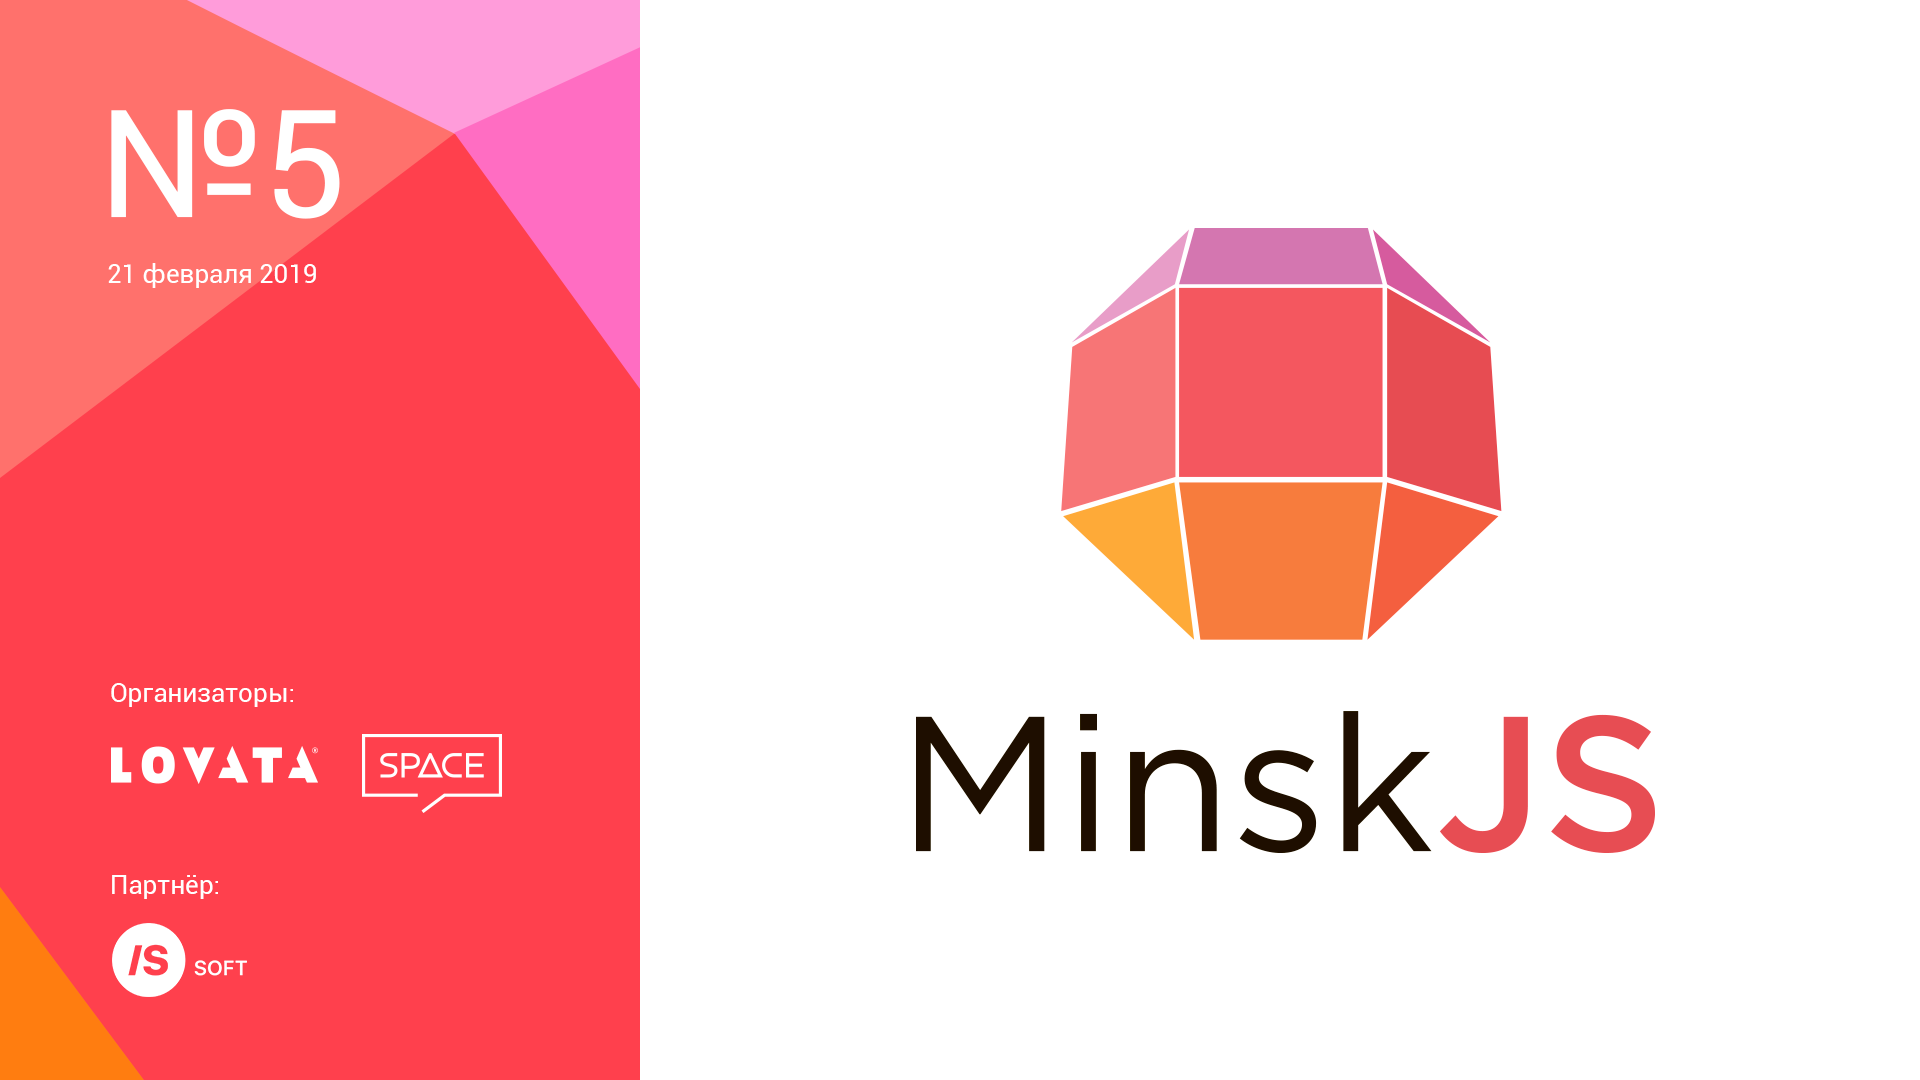
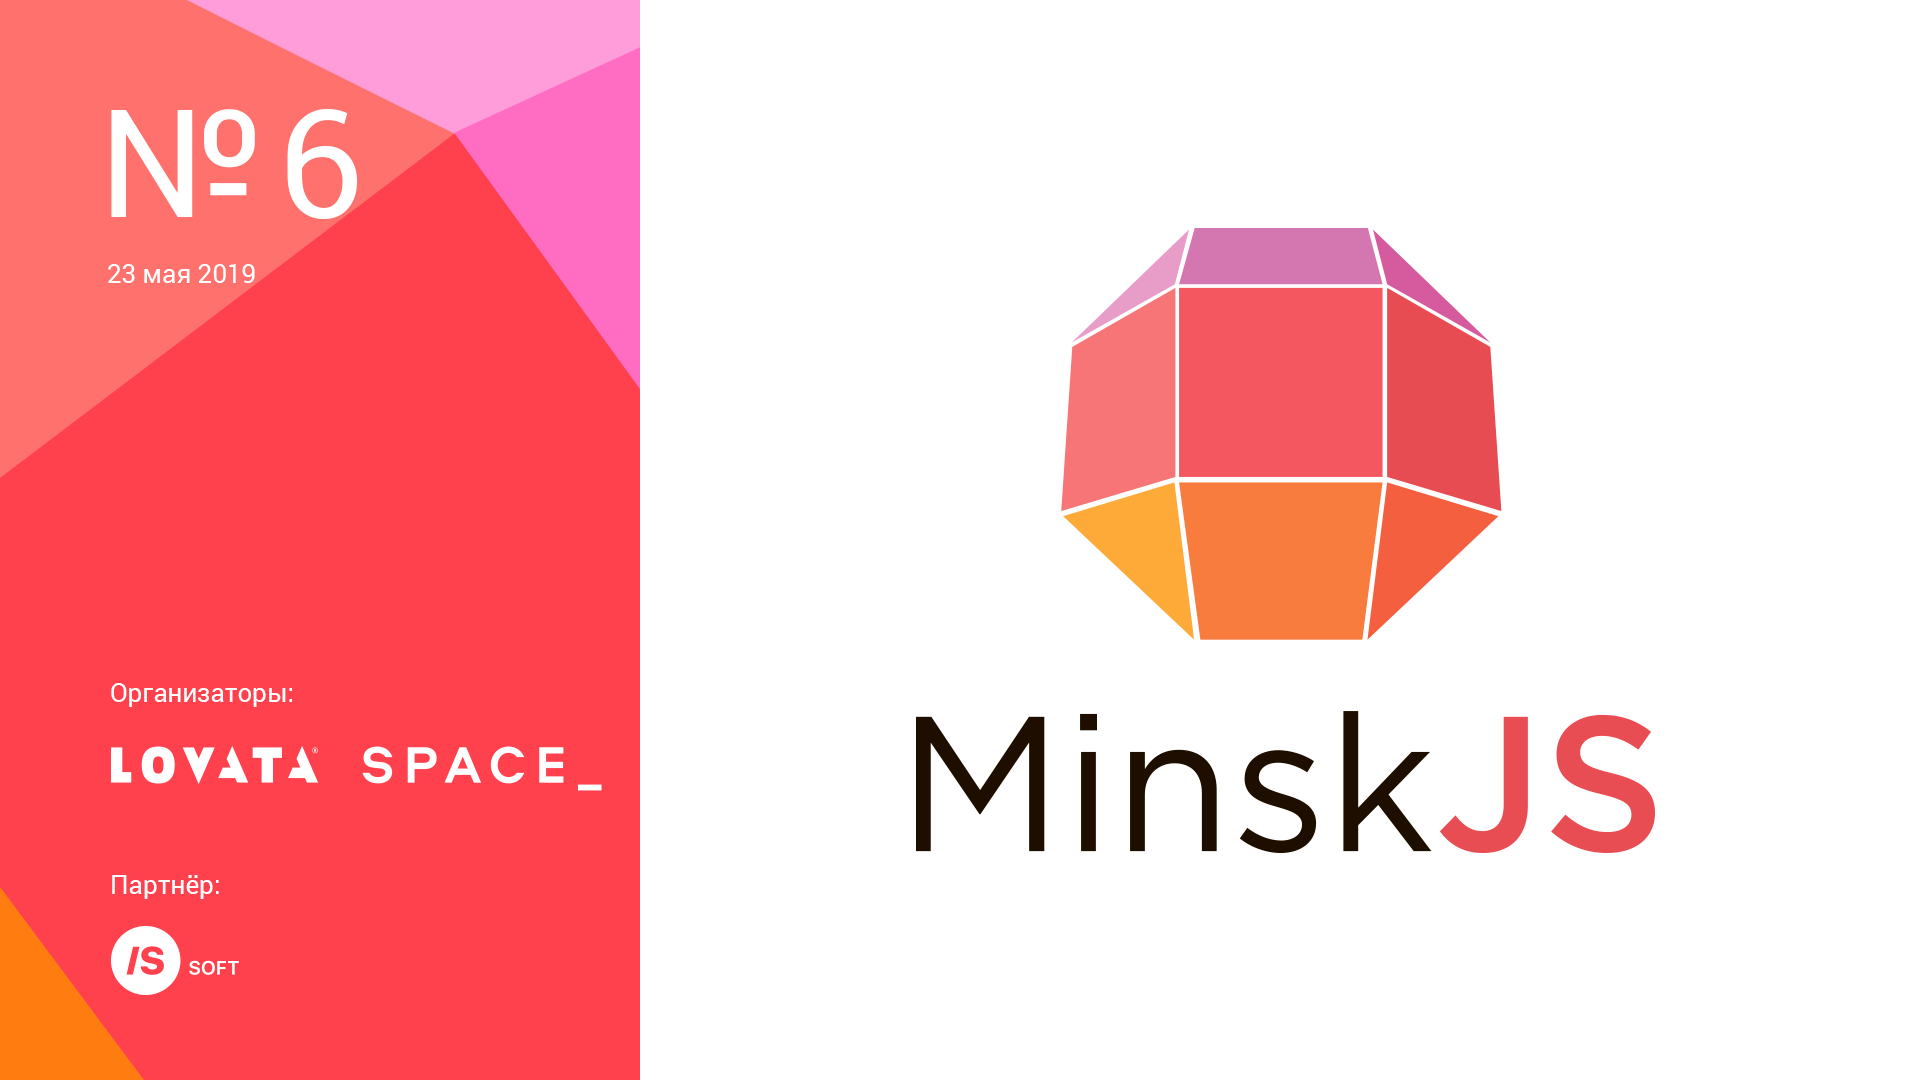
Update slides for 6th meetup

diff --git a/index.html b/index.html
@@ -2,7 +2,7 @@
 <html lang="en">
 
 <head>
-	<title>MinskJS Meetup #5 — Opening</title>
+	<title>MinskJS Meetup #6 — Opening</title>
 	<meta charset="utf-8">
 	<meta http-equiv="x-ua-compatible" content="ie=edge">
 	<meta name="viewport" content="width=device-width, initial-scale=1">
@@ -34,7 +34,7 @@
 <body class="shower list">
 
 	<header class="caption">
-		<h1>MinskJS Meetup #5</h1>
+		<h1>MinskJS Meetup #6</h1>
 		<p>
 			<a href="https://twitter.com/MinskJS">@minskjs</a>
 		</p>
@@ -49,7 +49,8 @@
 	</section>
 
 	<section class="slide clear">
-		<img src="pictures/space.svg" class="place" alt="SPACE" width="900">
+		<img src="./pictures/space.jpg" alt="" class="cover height">
+		<img src="pictures/space-logo.svg" class="place" alt="SPACE" width="800">
 	</section>
 
 	<section class="slide clear">
@@ -82,62 +83,52 @@
 			</style>
 			<div class="animated bounceInLeft animation-delay-100">
 				<img src="pictures/minskcss-logo.svg" alt="">
-				<span class="meetups-attendees-ratio">46,63%</span>
+				<span class="meetups-attendees-ratio">696</span>
 			</div>
 			<div class="animated bounceInRight animation-delay-100">
 				<img src="pictures/minskjs-logo.svg" alt="">
-				<span class="meetups-attendees-ratio">52,37%</span>
+				<span class="meetups-attendees-ratio">661</span>
 			</div>
 		</div>
 	</section>
 
 	<section class="slide black clear">
-		<h2 class="shout no-bg shrink" style="color: white">+18% 👥</h2>
+		<img src="pictures/css-minsk-js-logo-2019.svg" class="place" width="450" alt="CSS-Minsk-JS">
 	</section>
 
 	<section class="slide black clear">
-		<h2 class="shout no-bg shrink" style="color: white">+2 🎓</h2>
-	</section>
-
-	<section class="slide clear">
-		<img src="pictures/minskjs-workshop-2.png" alt="MinskJS Workshop #2" class="cover height">
+		<h2 class="shout no-bg shrink" style="color: white">2 ☀ + 1 💻</h2>
 	</section>
 
 	<section class="slide black clear">
-		<img src="pictures/css-minsk-js-logo.svg" class="place" width="450" alt="CSS-Minsk-JS">
+		<h2 class="shout no-bg shrink" style="color: white">500+ 👥</h2>
 	</section>
 
-	<section class="slide black clear">
-		<h2 class="shout no-bg shrink" style="color: white">2 ☀</h2>
-	</section>
-
-	<section class="slide black clear">
-		<h2 class="shout no-bg shrink" style="color: white">450 👥</h2>
-	</section>
-
-	<section class="slide clear">
-		<iframe width="100%" height="100%" class="cover" src="https://www.youtube.com/embed/e5jpuLPu8fA?controls=0" frameborder="0" allow="accelerometer; autoplay; encrypted-media; gyroscope; picture-in-picture" allowfullscreen></iframe>
-	</section>
-
-	<section class="slide black clear">
-		<img src="pictures/css-minsk-js-logo-2019.svg" class="place" width="600" alt="CSS-Minsk-JS">
-	</section>
-
-	<section class="slide clear black">
-		<img src="pictures/reactamsterdam-banner.jpg" class="cover" alt="ReactAmsterdam">
-	</section>
-
-	<section class="slide clear black">
-		<img src="pictures/opensourceawards-banner.jpg" class="cover" alt="ReactAmsterdam">
+	<section class="slide clear" style="background-color: #2c2929">
+		<img src="./pictures/mc.jpg" alt="" class="cover">
 	</section>
 
 	<section class="slide clear">
 		<img src="pictures/frontendconf-banner.png" class="cover" alt="FrontendConf">
 	</section>
 
-	<section class="slide clear">
-		<img src="pictures/patreon-logo.svg" class="cover" alt="Patreon">
+	<section class="slide clear black">
+		<img src="./pictures/itspring.png" alt="" class="cover height">
+		<h2 class="shout no-bg" style="color: white;
+		font-size: 2.5em;
+		top: 63%;">JSCOMMUNITY</h2>
 	</section>
+
+	<section class="slide clear black">
+		<img src="./pictures/chernivtsyjs.jpg" alt="" class="cover width">
+		<h2 class="shout no-bg" style="color: white;
+		font-size: 2.5em;
+		top: 85%;">ChernivtsyJSLovesMinskJS</h2>
+	</section>
+
+	<!-- <section class="slide clear">
+		<img src="pictures/patreon-logo.svg" class="cover" alt="Patreon">
+	</section> -->
 
 	<section class="slide clear">
 		<h2>Мы в соц. сетях</h2>
